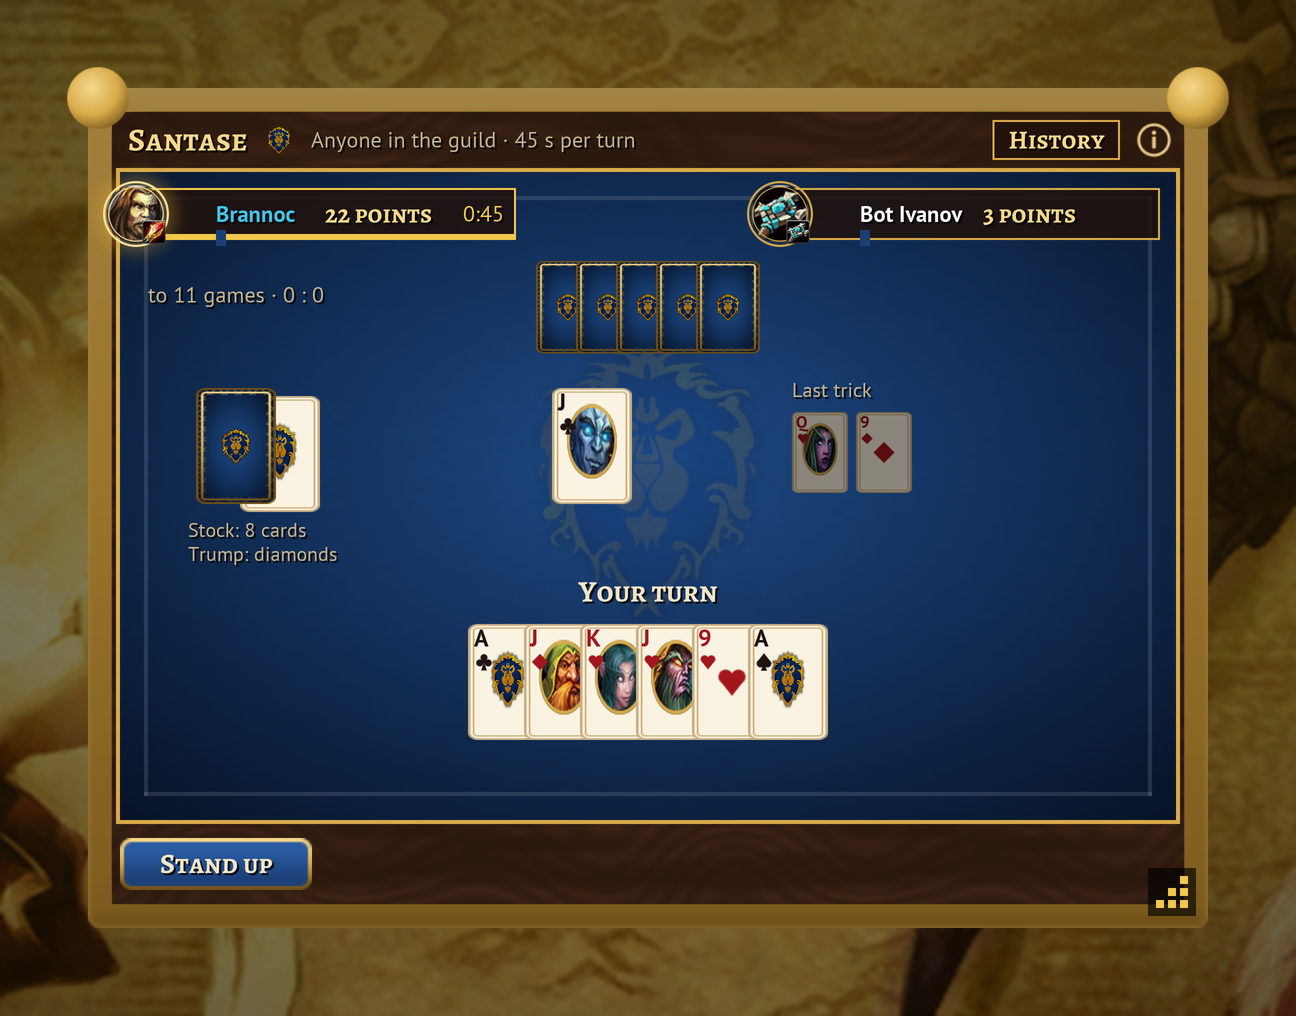
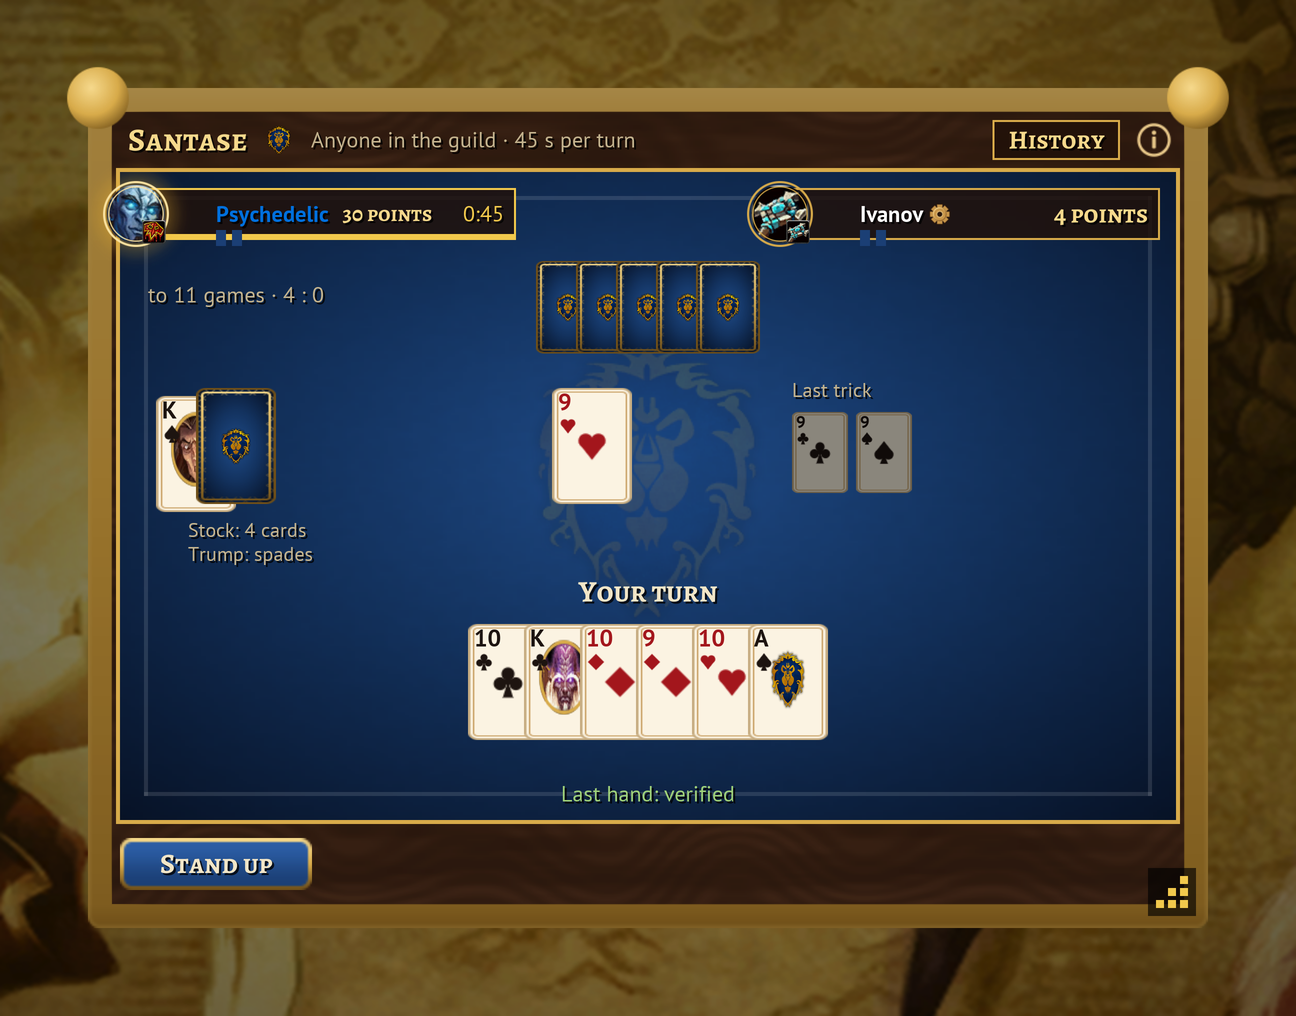
Screenshots: a Horde twin of every picture, the README's Alliance / Horde folds
- tools/shots/scenes.lua: every README scene gets a "<scene>_horde" twin, the
  same scene booted as the Horde (a scene with its own Horde version keeps it).
- The player in the pictures is now "Psychedelic", a shaman: an Orc for the
  Horde, a Draenei for the Alliance.
- README: the screenshots sit in two folds, "Alliance look" (open) and
  "Horde look", twelve pictures each, the hall among them.
- All 24 pictures redrawn.

diff --git a/README.md b/README.md
@@ -82,36 +82,71 @@ Every table is either **just for fun** or **staked in gold and silver**. The add
 
 ## Screenshots
 
-In these shots practice bots fill the seats, and the leaderboard and the ledger show made-up guild members.
+In these shots practice bots fill the seats, and the leaderboard and the ledger show made-up guild members. The addon dresses itself in your faction's colours: click a look to open it.
+
+<details open>
+<summary><b>🦁 Alliance look</b>: lapis and gold</summary>
 
 <table>
 <tr>
-<td width="50%" align="center"><img src="docs/screenshots/belot.png" alt="Belot mid-hand: four players, a trick on the table, the face cards with the race leaders"><br><sub>Belot</sub></td>
-<td width="50%" align="center"><img src="docs/screenshots/santase.png" alt="Santase: the trump card under the stock, the last trick and the player's hand"><br><sub>Santase</sub></td>
+<td width="50%" align="center"><img src="docs/screenshots/hall.png" alt="The tavern hall: tables of different games, the guild sign, the debts owed to you and who is in the tavern (Alliance look)"><br><sub>The hall</sub></td>
+<td width="50%" align="center"><img src="docs/screenshots/belot.png" alt="Belot mid-hand: four players, a trick on the table, the face cards with the race leaders (Alliance look)"><br><sub>Belot</sub></td>
 </tr>
 <tr>
-<td width="50%" align="center"><img src="docs/screenshots/tabla.png" alt="Backgammon mid-game with the dice thrown by both players"><br><sub>Backgammon</sub></td>
-<td width="50%" align="center"><img src="docs/screenshots/holdem.png" alt="Texas Hold'em with the board out, the live hand label and the hand history beside the table"><br><sub>Texas Hold'em and the hand history</sub></td>
+<td width="50%" align="center"><img src="docs/screenshots/santase.png" alt="Santase: the trump card under the stock, the last trick and the player's hand (Alliance look)"><br><sub>Santase</sub></td>
+<td width="50%" align="center"><img src="docs/screenshots/tabla.png" alt="Backgammon mid-game with the dice thrown by both players (Alliance look)"><br><sub>Backgammon</sub></td>
 </tr>
 <tr>
-<td width="50%" align="center"><img src="docs/screenshots/chess.png" alt="Chess mid-game with the move list and both clocks"><br><sub>Chess</sub></td>
-<td width="50%" align="center"><img src="docs/screenshots/deathroll.png" alt="Death Roll: the ladder of rolls, each one setting the new maximum"><br><sub>Death Roll</sub></td>
+<td width="50%" align="center"><img src="docs/screenshots/holdem.png" alt="Texas Hold'em with the board out, the live hand label and the hand history beside the table (Alliance look)"><br><sub>Texas Hold'em and the hand history</sub></td>
+<td width="50%" align="center"><img src="docs/screenshots/chess.png" alt="Chess mid-game with the move list and both clocks (Alliance look)"><br><sub>Chess</sub></td>
 </tr>
 <tr>
-<td width="50%" align="center"><img src="docs/screenshots/ttt.png" alt="Tic-tac-toe: a finished winning line"><br><sub>Tic-tac-toe</sub></td>
-<td width="50%" align="center"><img src="docs/screenshots/leaderboard.png" alt="The leaderboard: games, wins, gold net, favourite game and streaks"><br><sub>Leaderboard</sub></td>
+<td width="50%" align="center"><img src="docs/screenshots/deathroll.png" alt="Death Roll: the ladder of rolls, each one setting the new maximum (Alliance look)"><br><sub>Death Roll</sub></td>
+<td width="50%" align="center"><img src="docs/screenshots/ttt.png" alt="Tic-tac-toe: a finished winning line (Alliance look)"><br><sub>Tic-tac-toe</sub></td>
 </tr>
 <tr>
-<td width="50%" align="center"><img src="docs/screenshots/ledger.png" alt="The guild ledger: open and settled debts"><br><sub>Ledger</sub></td>
-<td width="50%" align="center"><img src="docs/screenshots/settings.png" alt="Settings: language, Alliance or Horde look, and the decks of the races with their leaders"><br><sub>Settings and decks</sub></td>
+<td width="50%" align="center"><img src="docs/screenshots/leaderboard.png" alt="The leaderboard: games, wins, gold net, favourite game and streaks (Alliance look)"><br><sub>Leaderboard</sub></td>
+<td width="50%" align="center"><img src="docs/screenshots/ledger.png" alt="The guild ledger: open and settled debts (Alliance look)"><br><sub>Ledger</sub></td>
 </tr>
 <tr>
-<td width="50%" align="center"><img src="docs/screenshots/book.png" alt="The rules book open on Belot"><br><sub>Rules book</sub></td>
-<td width="50%" align="center"><img src="docs/screenshots/belot_horde.png" alt="Belot in the Horde look"><br><sub>Horde look</sub></td>
+<td width="50%" align="center"><img src="docs/screenshots/settings.png" alt="Settings: language, the Alliance or Horde look, the decks of the races with their leaders, and the links (Alliance look)"><br><sub>Settings and decks</sub></td>
+<td width="50%" align="center"><img src="docs/screenshots/book.png" alt="The rules book open on Belot (Alliance look)"><br><sub>Rules book</sub></td>
 </tr>
 </table>
 
-<sub>These pictures are drawn from the addon's own UI code by [`tools/shots`](tools/shots/README.md), with the client's art read from a local WoW install. The world behind the windows is a loading screen; in the game it is the world around you.</sub>
+</details>
+
+<details>
+<summary><b>🐺 Horde look</b>: blood and iron</summary>
+
+<table>
+<tr>
+<td width="50%" align="center"><img src="docs/screenshots/hall_horde.png" alt="The tavern hall: tables of different games, the guild sign, the debts owed to you and who is in the tavern (Horde look)"><br><sub>The hall</sub></td>
+<td width="50%" align="center"><img src="docs/screenshots/belot_horde.png" alt="Belot mid-hand: four players, a trick on the table, the face cards with the race leaders (Horde look)"><br><sub>Belot</sub></td>
+</tr>
+<tr>
+<td width="50%" align="center"><img src="docs/screenshots/santase_horde.png" alt="Santase: the trump card under the stock, the last trick and the player's hand (Horde look)"><br><sub>Santase</sub></td>
+<td width="50%" align="center"><img src="docs/screenshots/tabla_horde.png" alt="Backgammon mid-game with the dice thrown by both players (Horde look)"><br><sub>Backgammon</sub></td>
+</tr>
+<tr>
+<td width="50%" align="center"><img src="docs/screenshots/holdem_horde.png" alt="Texas Hold'em with the board out, the live hand label and the hand history beside the table (Horde look)"><br><sub>Texas Hold'em and the hand history</sub></td>
+<td width="50%" align="center"><img src="docs/screenshots/chess_horde.png" alt="Chess mid-game with the move list and both clocks (Horde look)"><br><sub>Chess</sub></td>
+</tr>
+<tr>
+<td width="50%" align="center"><img src="docs/screenshots/deathroll_horde.png" alt="Death Roll: the ladder of rolls, each one setting the new maximum (Horde look)"><br><sub>Death Roll</sub></td>
+<td width="50%" align="center"><img src="docs/screenshots/ttt_horde.png" alt="Tic-tac-toe: a finished winning line (Horde look)"><br><sub>Tic-tac-toe</sub></td>
+</tr>
+<tr>
+<td width="50%" align="center"><img src="docs/screenshots/leaderboard_horde.png" alt="The leaderboard: games, wins, gold net, favourite game and streaks (Horde look)"><br><sub>Leaderboard</sub></td>
+<td width="50%" align="center"><img src="docs/screenshots/ledger_horde.png" alt="The guild ledger: open and settled debts (Horde look)"><br><sub>Ledger</sub></td>
+</tr>
+<tr>
+<td width="50%" align="center"><img src="docs/screenshots/settings_horde.png" alt="Settings: language, the Alliance or Horde look, the decks of the races with their leaders, and the links (Horde look)"><br><sub>Settings and decks</sub></td>
+<td width="50%" align="center"><img src="docs/screenshots/book_horde.png" alt="The rules book open on Belot (Horde look)"><br><sub>Rules book</sub></td>
+</tr>
+</table>
+
+</details>
 
 ## How it works
 

diff --git a/tools/shots/README.md b/tools/shots/README.md
@@ -7,7 +7,8 @@ python tools/shots/client_art.py      # once, needs a local WoW install (see bel
 luajit tools/shots/scenes.lua && python tools/shots/render.py
 ```
 
-Run it from the repo root. You can also name scenes, for example `luajit tools/shots/scenes.lua hall belot` followed by
+Every README scene also has a Horde twin, `<scene>_horde`: the same scene booted as the Horde, for the README's
+"Horde look" fold. Run it from the repo root. You can also name scenes, for example `luajit tools/shots/scenes.lua hall belot` followed by
 `python tools/shots/render.py hall belot`. It needs LuaJIT, and Python with Pillow and numpy.
 The scenes `history_belot`, `history_long` (the longest names), `history_santase` and `history_chess` show the „История“
 window open beside a table, to check it against mockup 10; they are made only when named and are not README pictures.
@@ -50,7 +51,7 @@ What is meant to be so is in `lint_allow.lua`, each entry with its reason. The f
 ## How it works
 
 1. `scenes.lua` boots the tests' fake WoW client (`tests/helpers/wow.lua`, `frames.lua`) with the `ui/` files, in
-   English, as the player "Brannoc". Each scene is then set up through the addon's own code paths. The player opens
+   English, as the player "Psychedelic", a shaman (an Orc for the Horde, a Draenei for the Alliance). Each scene is then set up through the addon's own code paths. The player opens
    tables and the "Add bots" and "Start" buttons seat the bots. Bots host tables and play real games on the fake
    clock. The player's own moves are the ones the engine's bot (or its automatic move) would make. A Death Roll roll
    is answered by the server's chat line. At the end the visible frame tree is written to
